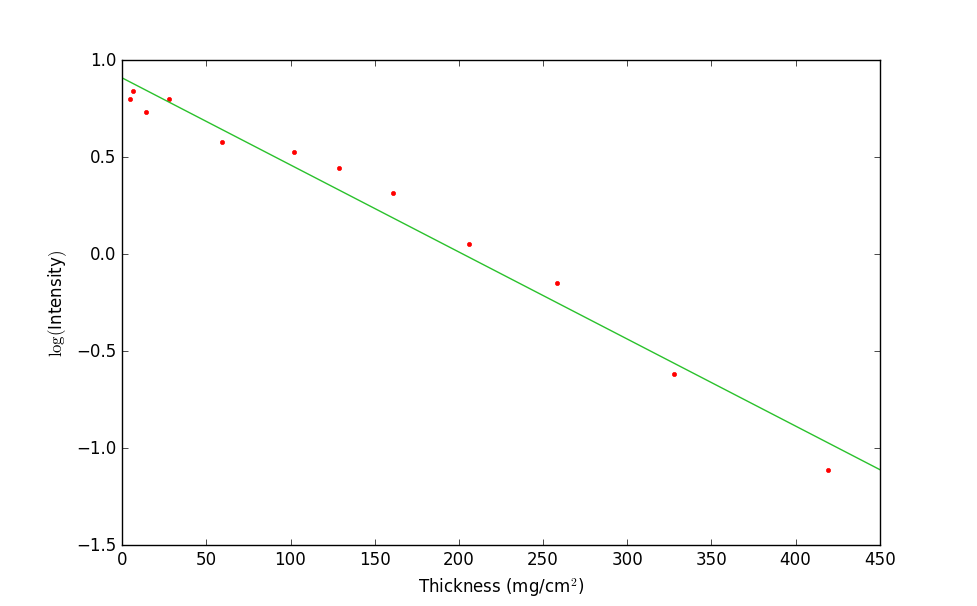
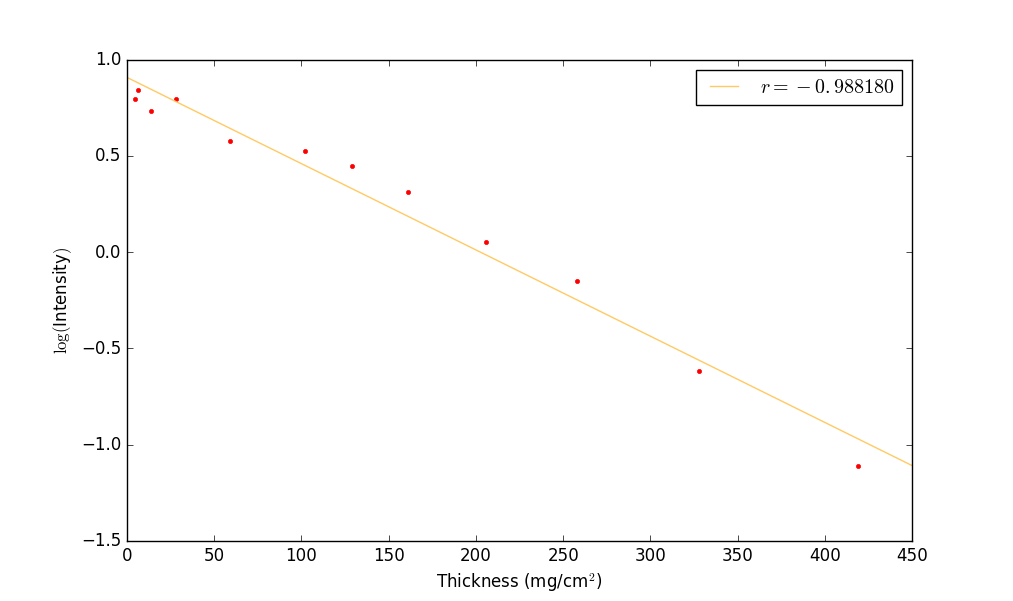
reports r value now

diff --git a/BariumLab1.py b/BariumLab1.py
@@ -130,21 +130,27 @@ def plot_times_counts(t, cs):
     x = np.linspace(0, 4, 1000)
 
     m, b, sy, sm, sb, r = pl.lsq(t, np.log(cs))
+
     plt.figure()
     plt.plot(t, np.log(cs), 'r.')
-    plt.plot(x, m*x + b, 'b-')
+    plt.plot(x, m*x + b, 'b-', label=('$r=%f$' % (r)))
+
     plt.xlabel('Time (minutes)')
     plt.ylabel('$\log($Counts per 0.5min$)$')
+    plt.legend(loc='upper right')
 
 def plot_thickness_intensity(T, I, xmin, xmax):
     x = np.linspace(xmin, xmax, 1000)
 
     m, b, sy, sm, sb, r = pl.lsq(T, np.log(I))
+
     plt.figure()
     plt.plot(T, np.log(I), 'r.')
-    plt.plot(x, m*x + b, c=np.random.rand(3,1))
+    plt.plot(x, m*x + b, c=np.random.rand(3,1), label=('$r=%f$' % (r)))
+
     plt.xlabel('Thickness (mg/cm$^2$)')
     plt.ylabel('$\log($Intensity$)$')
+    plt.legend(loc='upper right')
 
 
 #############################################################
